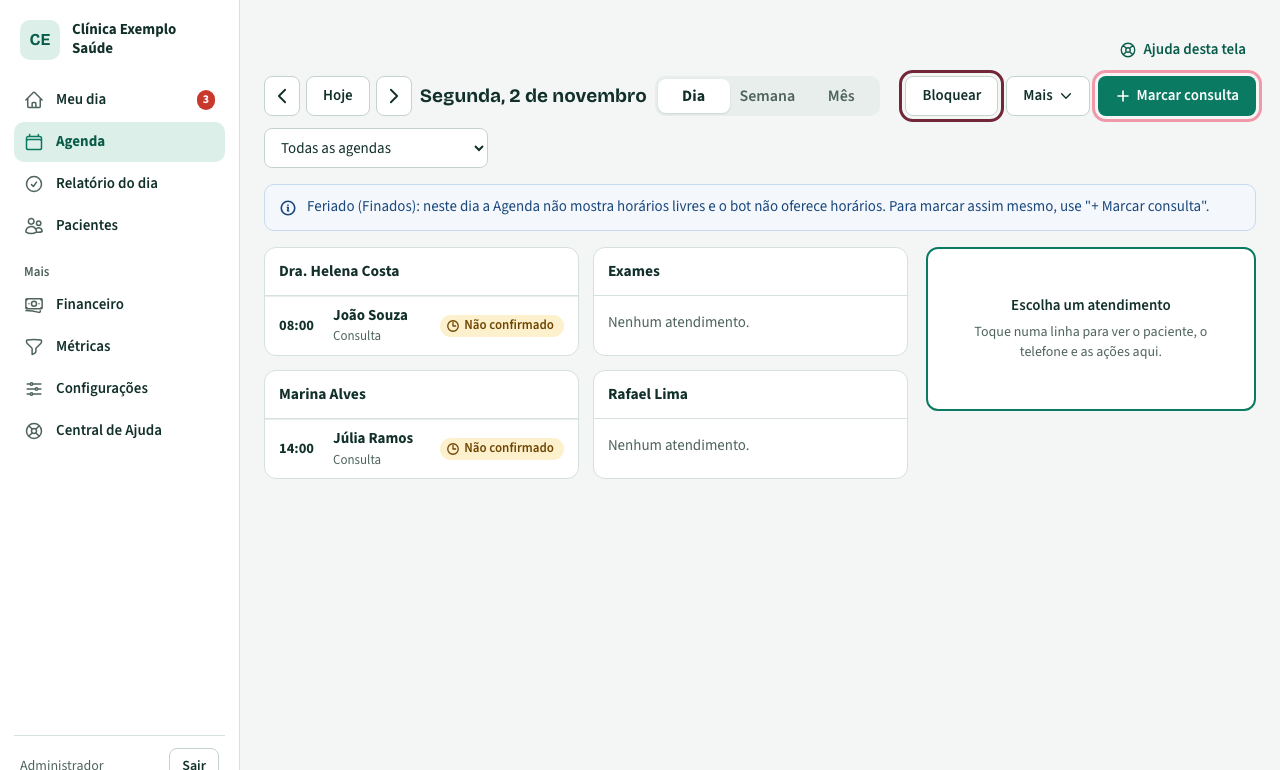
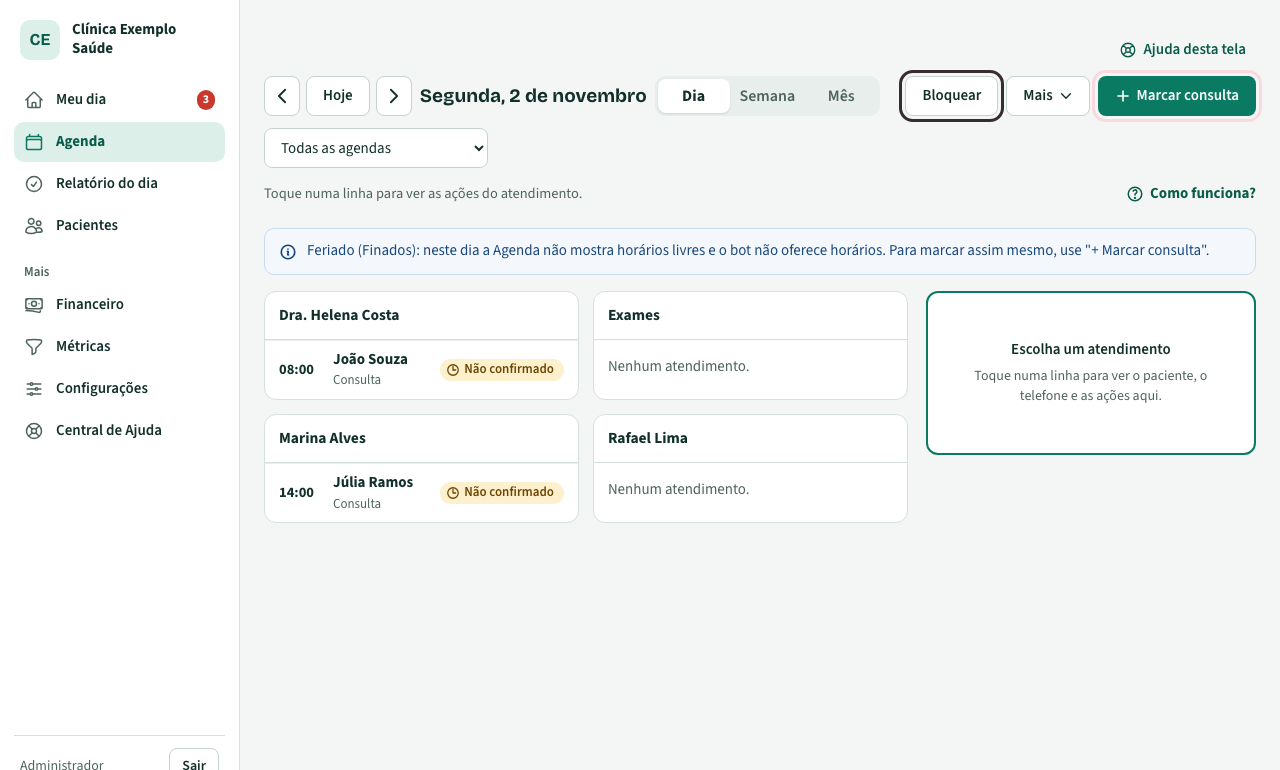
Central de Ajuda: recaptura de agenda-dia e inicio

diff --git a/docs/capturas-pendentes.md b/docs/capturas-pendentes.md
@@ -9,5 +9,4 @@ a captura e o motivo, avisar o cliente no fim da etapa e esperar a autorização
 
 ## Pendentes
 
-- `agenda-dia` — ganhou o link "Como funciona?" (situações) abaixo do cabeçalho (02/11/2026)
-- `inicio` — "Esperando o paciente" ganhou "Como funciona?" (só aparece com lembretes; a captura atual pode nem mostrar a seção) (02/11/2026)
+(nenhuma; `agenda-dia` e `inicio` refeitas em 02/11/2026)
